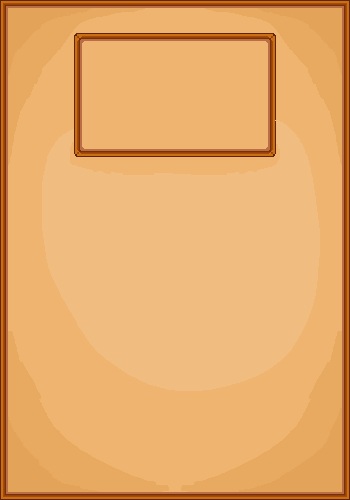
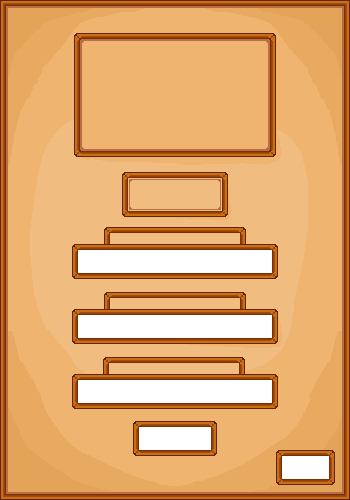
Panel Kontrolny skończony

Changed region(s): [[0.2, 0.33, 0.8, 0.93], [0.7714, 0.9, 0.9714, 0.99]]

diff --git a/CivSim/src/main/java/com/civsim/ControlPanel.java b/CivSim/src/main/java/com/civsim/ControlPanel.java
@@ -11,38 +11,115 @@ import java.io.IOException;
 public class ControlPanel extends JPanel {
     JFrame panel = new JFrame();
     JLabel label = new JLabel("<html><body><center>Symulacja<br>Cywilizacji</center</body></html>");
+    JLabel label2 = new JLabel("<html><body><center>Wprowadź<br>Dane</center</body></html>");
+    JLabel label3 = new JLabel("<html><body><center>Wielkość Mapy</center</body></html>");
+    JLabel label4 = new JLabel("<html><body><center>Ilość Cywilizacji</center</body></html>");
+    JLabel label5 = new JLabel("<html><body><center>Czas Trwania Symulacji</center</body></html>");
+
     JLabel background;
+    String blank = " ";
+    JTextField firstText = new JTextField(blank,1);
+    JTextField secondText = new JTextField(blank,1);
+    JTextField thirdText = new JTextField(blank,1);
+
     JButton creditsButton;
+    JButton startButton;
     Font pix3mFont;
     File file;
-    Color button = new Color(156,86,46);
+    Color button = new Color(157, 97, 27);
+
     ControlPanel() throws IOException {
-        label.setBounds(106,50,200,68);
+
             try{
-                pix3mFont = Font.createFont(Font.TRUETYPE_FONT, new File("./CivSim/src/main/resources/com/civsim/Pliki/Font/bitmap_font_romulus_by_pix3m-d6aokem.ttf")).deriveFont(32f);
+                pix3mFont = Font.createFont(Font.TRUETYPE_FONT, new File("./CivSim/src/main/resources/com/civsim/Pliki/Font/bitmap_font_romulus_by_pix3m-d6aokem.ttf"));
                 GraphicsEnvironment ge = GraphicsEnvironment.getLocalGraphicsEnvironment();
                 ge.registerFont(Font.createFont(Font.TRUETYPE_FONT, new File("./CivSim/src/main/resources/com/civsim/Pliki/Font/bitmap_font_romulus_by_pix3m-d6aokem.ttf")));
             }catch (IOException | FontFormatException e){
                 System.out.println(e);
             }
-        label.setFont(pix3mFont);
+
+        panel.setLayout(new FlowLayout());
+        label.setBounds(106,55,200,68);
+        label.setFont(pix3mFont.deriveFont(32f));
         panel.add(label);
-        panel.setDefaultCloseOperation(JFrame.EXIT_ON_CLOSE);
-        panel.setSize(366,539);
-        panel.setLayout(null);
-        panel.setVisible(true);
-        panel.setTitle("Symulacja Cywilizacji");
+
+        label2.setFont(pix3mFont.deriveFont(14.4f));
+        label2.setBounds(145,178,93,32);
+        panel.add(label2);
+
+        label3.setFont(pix3mFont.deriveFont(13f));
+        label3.setBounds(135,233,129,10);
+        panel.add(label3);
+
+        label4.setFont(pix3mFont.deriveFont(13f));
+        label4.setBounds(132,298,129,10);
+        panel.add(label4);
+
+        label5.setFont(pix3mFont.deriveFont(13f));
+        label5.setBounds(110,363,129,10);
+        panel.add(label5);
+
+
+
+
         file = new File("./CivSim/src/main/resources/com/civsim/Pliki/background.png");
         ImageIcon image = new ImageIcon(String.valueOf(file));
         background = new JLabel(image);
         background.setSize(350, 500);
         panel.add(background);
+
         file = new File("./CivSim/src/main/resources/com/civsim/Pliki/icon.png");
         image = new ImageIcon(String.valueOf(file));
         panel.setIconImage(image.getImage());
+
+        firstText.setSize( 193, 23);
+        firstText.setLocation(78,250);
+        firstText.setFont(pix3mFont.deriveFont(18f));
+
+        secondText.setSize( 193, 23);
+        secondText.setLocation(78,315);
+        secondText.setFont(pix3mFont.deriveFont(18f));
+
+        thirdText.setSize( 193, 23);
+        thirdText.setLocation(78,380);
+        thirdText.setFont(pix3mFont.deriveFont(18f));
+
+        panel.add(firstText);
+        panel.add(secondText);
+        panel.add(thirdText);
+
+
+        startButton = new JButton("Start");
+        startButton.setBackground(button);
+        startButton.setBounds(139,427,72,23);
+        startButton.setMargin(new Insets(2,2,2,2));
+        startButton.setFont(pix3mFont.deriveFont(18f));
+        startButton.setBorderPainted(false);
+        startButton.setFocusable(true);
+        startButton.setFocusPainted(false);
+
+        startButton.addActionListener(new ActionListener() {
+            @Override
+            public void actionPerformed(ActionEvent e) {
+                try {
+                    Credits credits = new Credits();
+                } catch (IOException ex) {
+                    throw new RuntimeException(ex);
+                }
+            }
+        }
+        );
+
+        panel.add(startButton);
+
         creditsButton = new JButton("Credits");
         creditsButton.setBackground(button);
-        creditsButton.setBounds(128,440,100,40);
+        creditsButton.setBounds(282,456,47,23);
+        creditsButton.setMargin(new Insets(2,2,2,2));
+        creditsButton.setFont(pix3mFont.deriveFont(12.4f));
+        creditsButton.setBorderPainted(false);
+        creditsButton.setFocusable(true);
+        creditsButton.setFocusPainted(false);
         creditsButton.addActionListener(new ActionListener() {
             @Override
             public void actionPerformed(ActionEvent e) {
@@ -52,8 +129,19 @@ public class ControlPanel extends JPanel {
                     throw new RuntimeException(ex);
                 }
             }
-        });
+        }
+        );
         panel.add(creditsButton);
+
+
+
+        panel.setDefaultCloseOperation(JFrame.EXIT_ON_CLOSE);
+        panel.setSize(366,539);
+        panel.setLayout(null);
+        panel.setVisible(true);
+        panel.setTitle("Symulacja Cywilizacji");
+
+
 
     }
 

diff --git a/CivSim/src/main/java/com/civsim/Resources.java b/CivSim/src/main/java/com/civsim/Resources.java
@@ -24,7 +24,8 @@ public class Resources {
     public BufferedImage getImg(){
         BufferedImage image;
         InputStream is;
-        if(Objects.equals(this.resourceName, "wood")){
+        if(Objects.equals(this.resourceName, "wood"))
+        {
             try {
                 File file = new File("./CivSim/src/main/resources/com/civsim/Pliki/wood_log_filled.png");
                 image = ImageIO.read(file);
@@ -33,7 +34,8 @@ public class Resources {
             } catch (IOException e) {
                 e.printStackTrace();
             }
-        }else if(Objects.equals(this.resourceName, "water")){
+        }else if(Objects.equals(this.resourceName, "water"))
+        {
             try {
                 File file = new File("./CivSim/src/main/resources/com/civsim/Pliki/water_filled.png");
                 image = ImageIO.read(file);
@@ -41,7 +43,8 @@ public class Resources {
             } catch (IOException e) {
                 e.printStackTrace();
             }
-        }else if(Objects.equals(this.resourceName, "cow")){
+        }else if(Objects.equals(this.resourceName, "cow"))
+        {
 
             try {
                 File file = new File("./CivSim/src/main/resources/com/civsim/Pliki/cow_filled.png");
@@ -50,7 +53,8 @@ public class Resources {
             } catch (IOException e) {
                 e.printStackTrace();
             }
-        }else if(Objects.equals(this.resourceName, "wheat")){
+        }else if(Objects.equals(this.resourceName, "wheat"))
+        {
 
             try {
                 File file = new File("./CivSim/src/main/resources/com/civsim/Pliki/wheat_filled.png");
@@ -59,7 +63,8 @@ public class Resources {
             } catch (IOException e) {
                 e.printStackTrace();
             }
-        }else if(Objects.equals(this.resourceName, "iron")){
+        }else if(Objects.equals(this.resourceName, "iron"))
+        {
 
             try {
                 File file = new File("./CivSim/src/main/resources/com/civsim/Pliki/iron_filled.png");
@@ -68,7 +73,8 @@ public class Resources {
             } catch (IOException e) {
                 e.printStackTrace();
             }
-        }else if(Objects.equals(this.resourceName, "stone")){
+        }else if(Objects.equals(this.resourceName, "stone"))
+        {
 
             try {File file = new File("./CivSim/src/main/resources/com/civsim/Pliki/stone_filled.png");
                 image = ImageIO.read(file);
@@ -83,34 +89,50 @@ public class Resources {
     String drawResources(){
         int random;
         random = (int) (Math.random() * 6);
-        if(random == 0){
+        if(random == 0)
+        {
                 this.wood = 1;
-                return "wood";}
-        if(random == 1){
+                return "wood";
+        }
+        if(random == 1)
+        {
                 this.water = 1;
-                return "water";}
-        if(random == 2){
+                return "water";
+        }
+        if(random == 2)
+        {
                 this.animals = 1;
-                return "cow";}
-        if(random == 3){
+                return "cow";
+        }
+        if(random == 3)
+        {
                 this.wheat = 1;
-                return "wheat";}
-        if(random == 4){
+                return "wheat";
+        }
+        if(random == 4)
+        {
                 this.iron = 1;
-                return "iron";}
-        if (random == 5){
+                return "iron";
+        }
+        if (random == 5)
+        {
                 this.stone = 1;
-                return "stone";}
+                return "stone";
+        }
         else return null;
     }
-    public boolean resourcesCompareVillage(Resources resources){
-        if(resources.wood >= 5 && resources.wheat >= 3 && resources.animals >= 2) {
+    public boolean resourcesCompareVillage(Resources resources)
+    {
+        if(resources.wood >= 5 && resources.wheat >= 3 && resources.animals >= 2)
+        {
             return true;
         }
         else return false;
     }
-    public boolean resourcesCompareCity(Resources resources){
-        if(resources.wood >= 3 && resources.stone >= 5 && resources.animals >= 2 && resources.iron >= 2) {
+    public boolean resourcesCompareCity(Resources resources)
+    {
+        if(resources.wood >= 3 && resources.stone >= 5 && resources.animals >= 2 && resources.iron >= 2)
+        {
             return true;
         }
         else return false;

diff --git a/CivSim/src/main/java/com/civsim/Simulation.java b/CivSim/src/main/java/com/civsim/Simulation.java
@@ -8,8 +8,6 @@ public class Simulation {
     public Position[] civPosition = new Position[4];
     Simulation() throws IOException {
         ControlPanel controlPanel = new ControlPanel();
-
-
         civilization[0] = new Civilization();
         civilization[1] = new Civilization();
         civilization[2] = new Civilization();
@@ -19,7 +17,6 @@ public class Simulation {
         civPosition[2] = civilization[2].passCivPosition();
         civPosition[3] = civilization[3].passCivPosition();
         Map simulation = new Map(getCivPosition());
-
     }
     public Position[] getCivPosition(){
         Position[] positions = new Position[4];

diff --git a/CivSim/src/main/java/com/civsim/Main.java b/CivSim/src/main/java/com/civsim/Main.java
@@ -4,7 +4,6 @@ import javax.swing.*;
 import java.io.IOException;
 
 public class Main extends JFrame {
-
     public static void  main(String[] args) throws IOException {
         Simulation simulation = new Simulation();
     }
